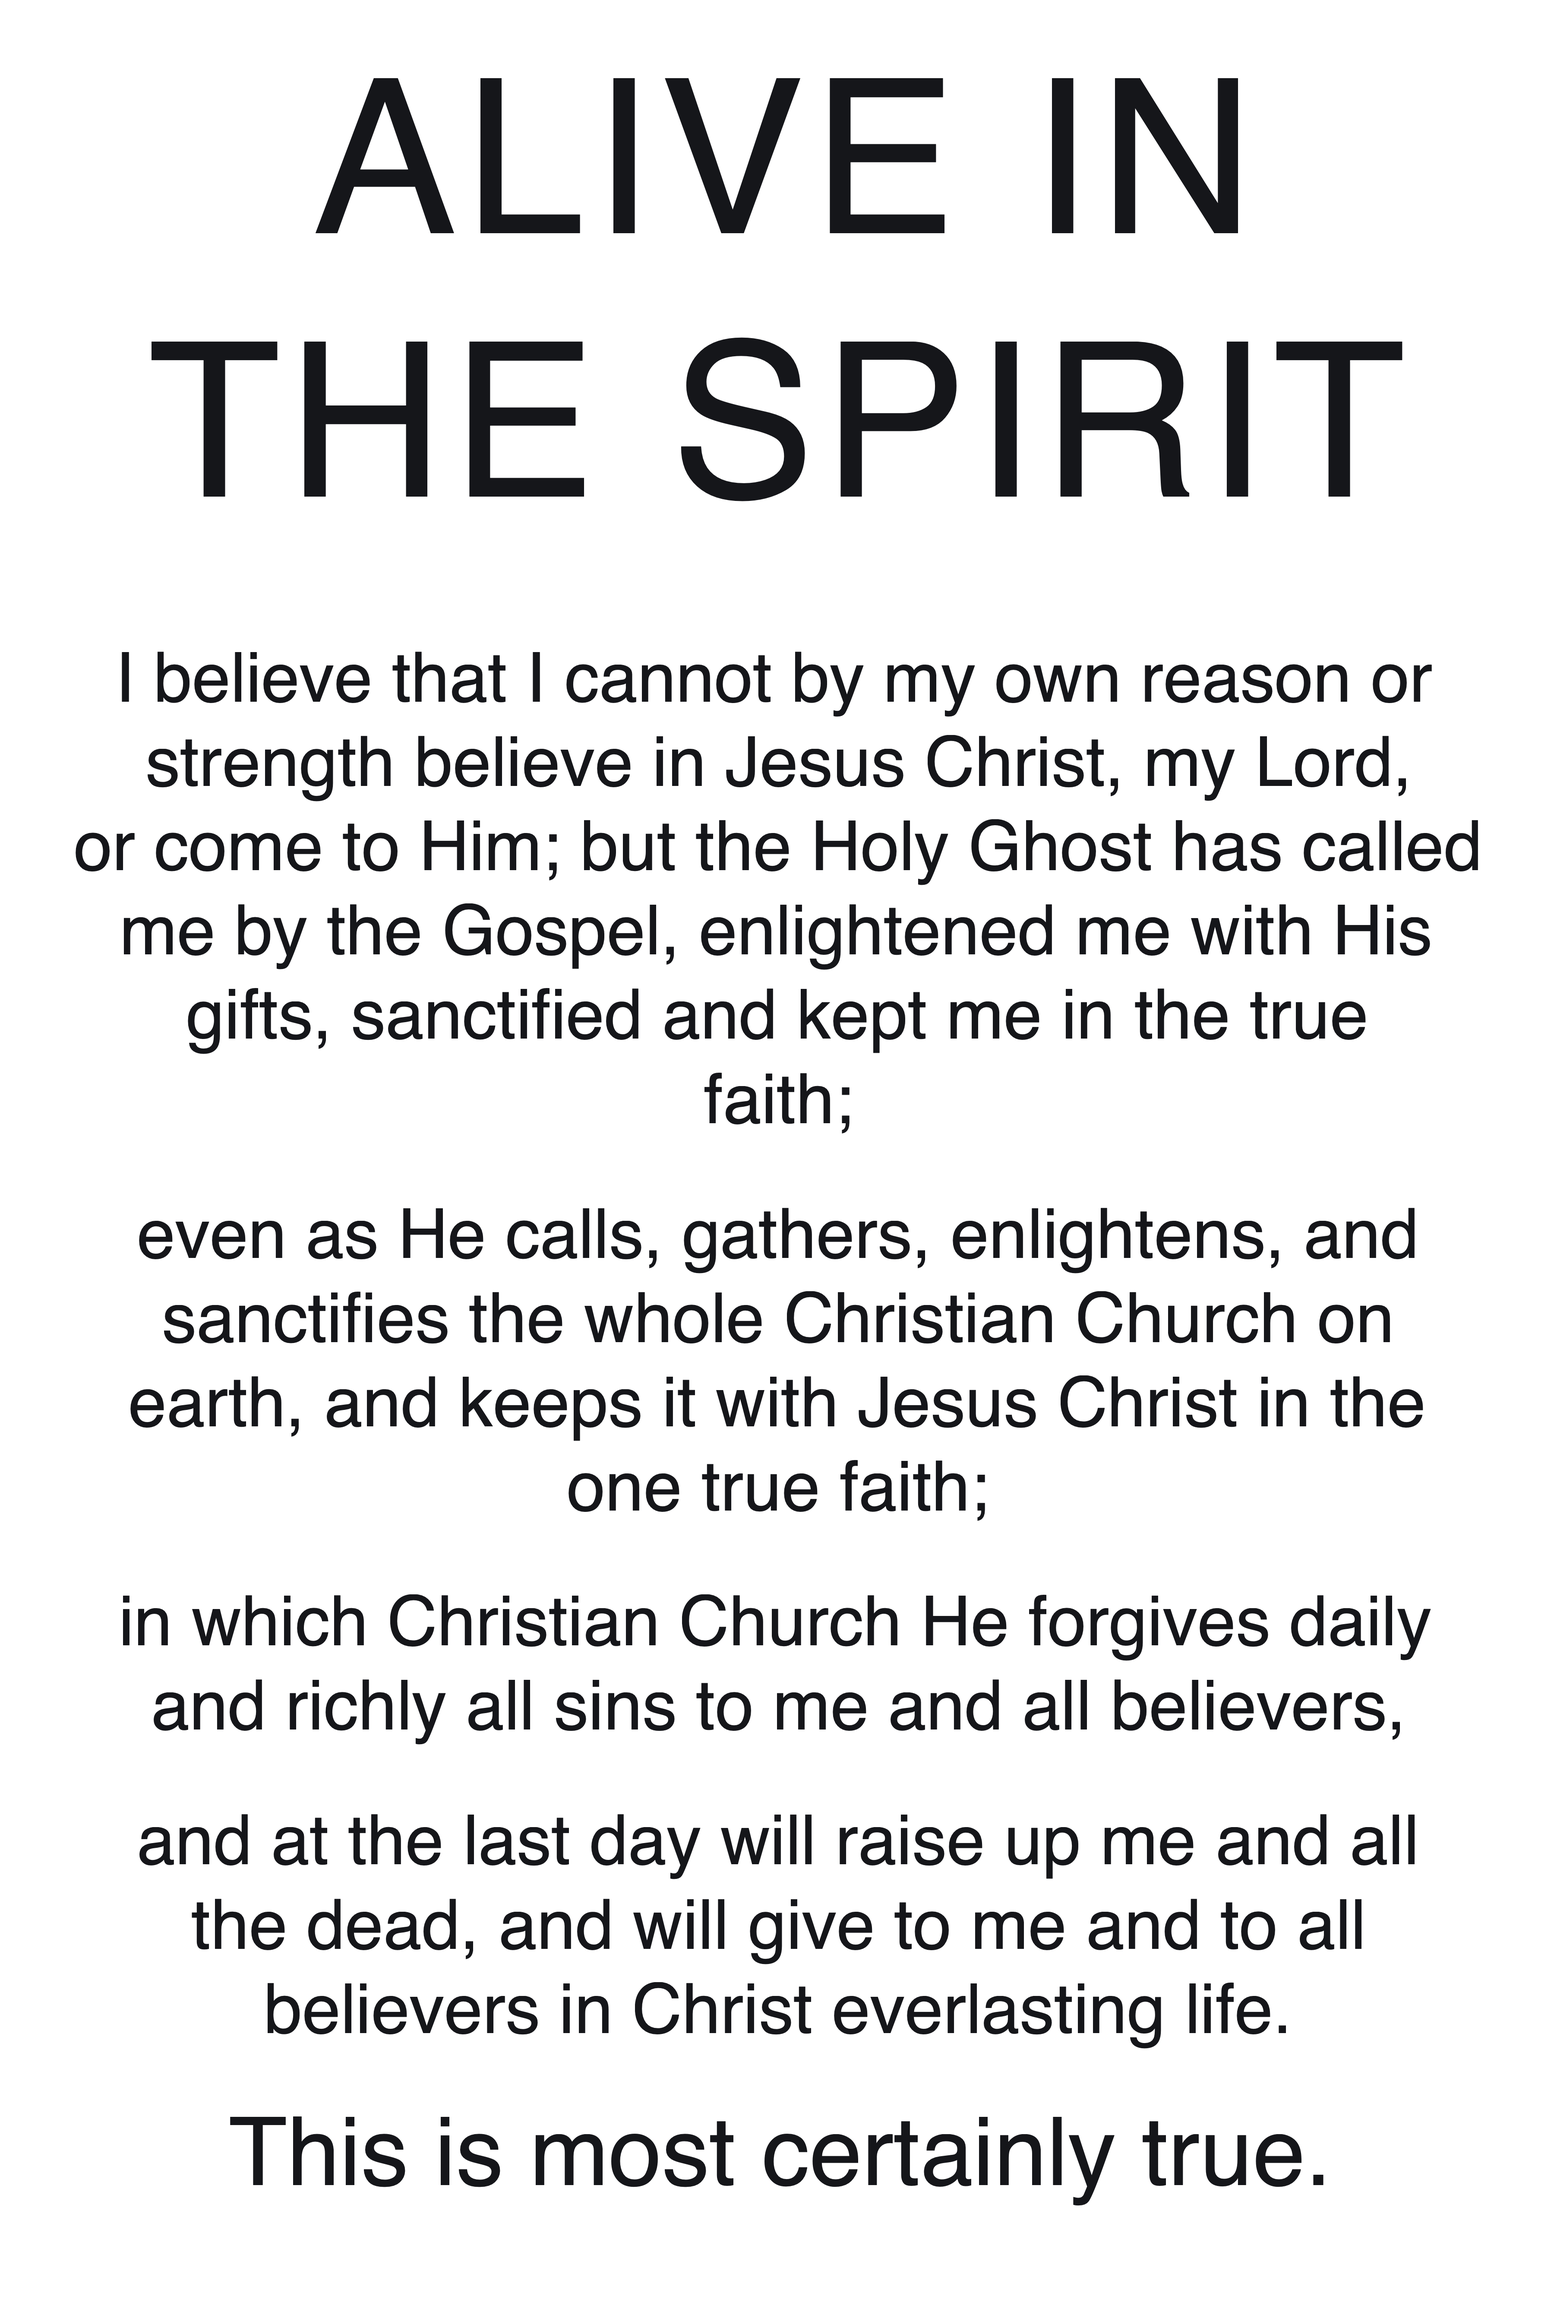
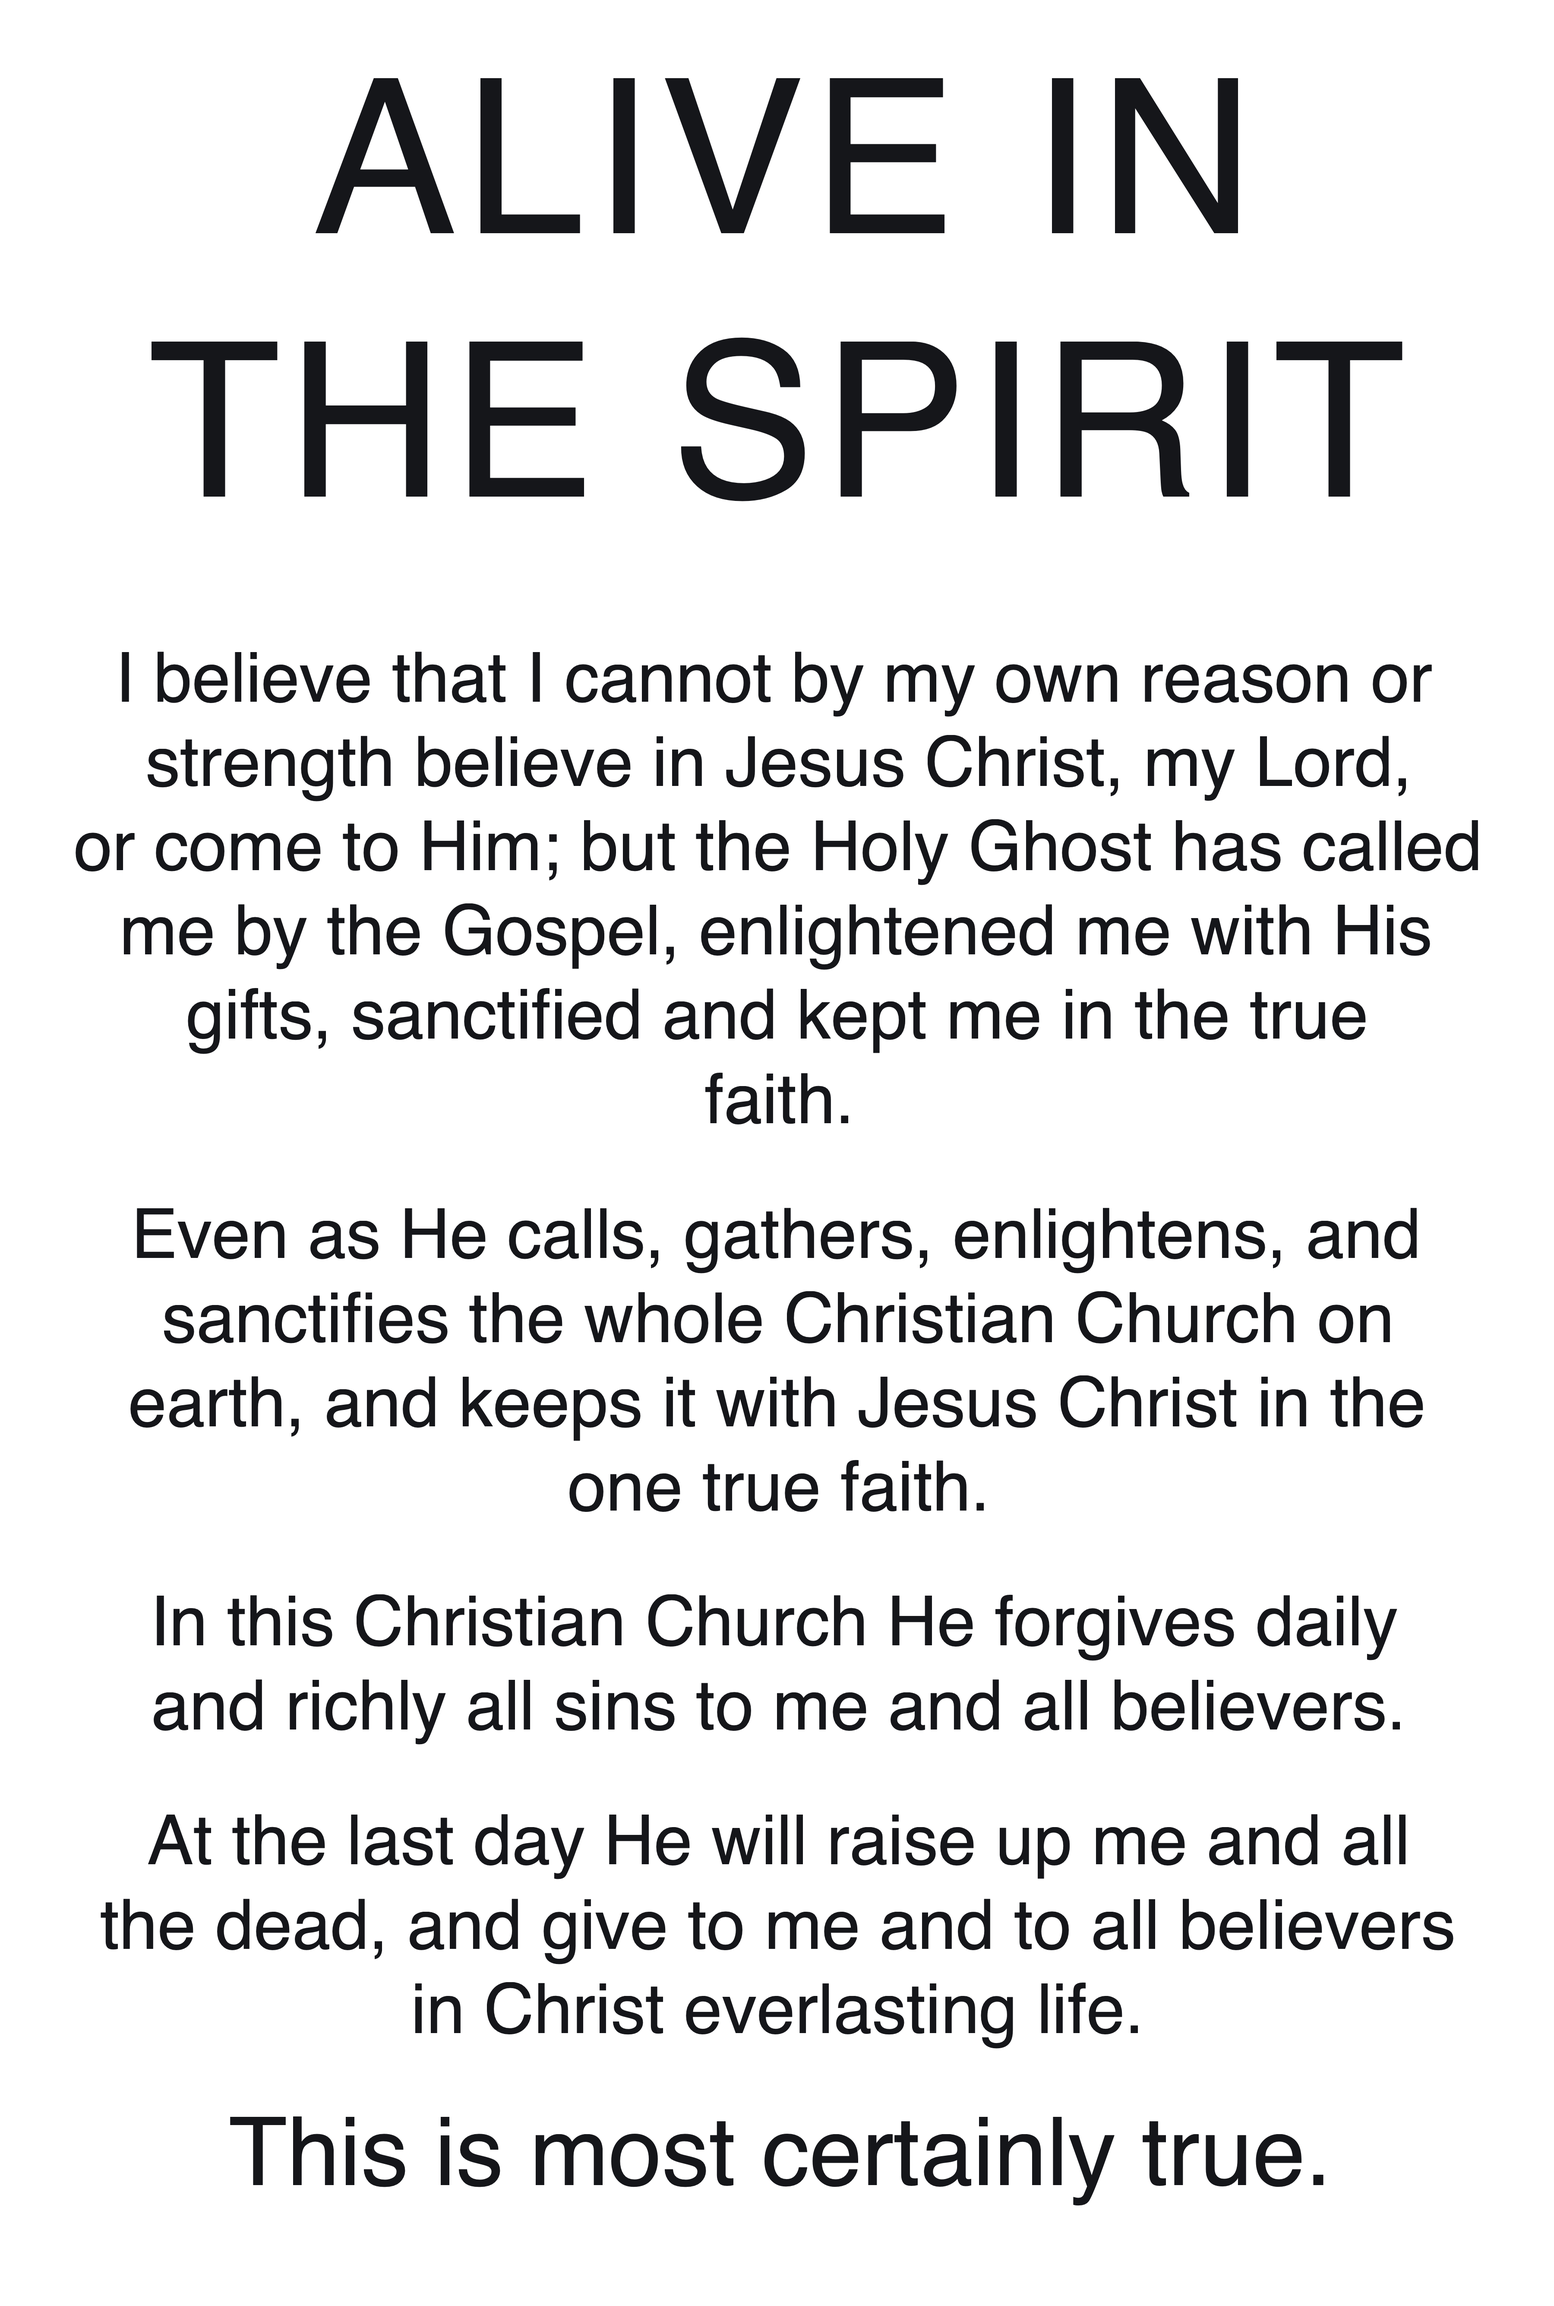
Restructure back text into the article's four natural beats
The Triglotta is grammatically one long sentence broken by semicolons,
so paragraph-splitting at the semicolons produced fragments starting
with "even as", "in which", "and at the last day". Reworked the back
into four self-contained paragraphs that mirror the article's logical
structure:

  1. Personal salvation — I believe that I cannot...sanctified and kept
     me in the true faith.
  2. Church universal — Even as He calls, gathers, enlightens, and
     sanctifies the whole Christian Church on earth.
  3. Daily forgiveness — In this Christian Church He forgives daily
     and richly all sins.
  4. Resurrection — At the last day He will raise up me and all the
     dead, and give everlasting life.

Plus the closing seal: "This is most certainly true."

Connector tweaks ("In this" / "At the last day" / dropping the leading
"and") are minimal stylistic changes to make each paragraph parse
standalone. Source remains the public-domain Triglotta.

diff --git a/shirts/third-article.md b/shirts/third-article.md
@@ -30,13 +30,13 @@ Therefore...
 
 ## Back
 
-I believe that I cannot by my own reason or strength believe in Jesus Christ, my Lord, or come to Him; but the Holy Ghost has called me by the Gospel, enlightened me with His gifts, sanctified and kept me in the true faith;
+I believe that I cannot by my own reason or strength believe in Jesus Christ, my Lord, or come to Him; but the Holy Ghost has called me by the Gospel, enlightened me with His gifts, sanctified and kept me in the true faith.
 
-even as He calls, gathers, enlightens, and sanctifies the whole Christian Church on earth, and keeps it with Jesus Christ in the one true faith;
+Even as He calls, gathers, enlightens, and sanctifies the whole Christian Church on earth, and keeps it with Jesus Christ in the one true faith.
 
-in which Christian Church He forgives daily and richly all sins to me and all believers,
+In this Christian Church He forgives daily and richly all sins to me and all believers.
 
-and at the last day will raise up me and all the dead, and will give to me and to all believers in Christ everlasting life.
+At the last day He will raise up me and all the dead, and give to me and to all believers in Christ everlasting life.
 
 ### Closing
 This is most certainly true.
